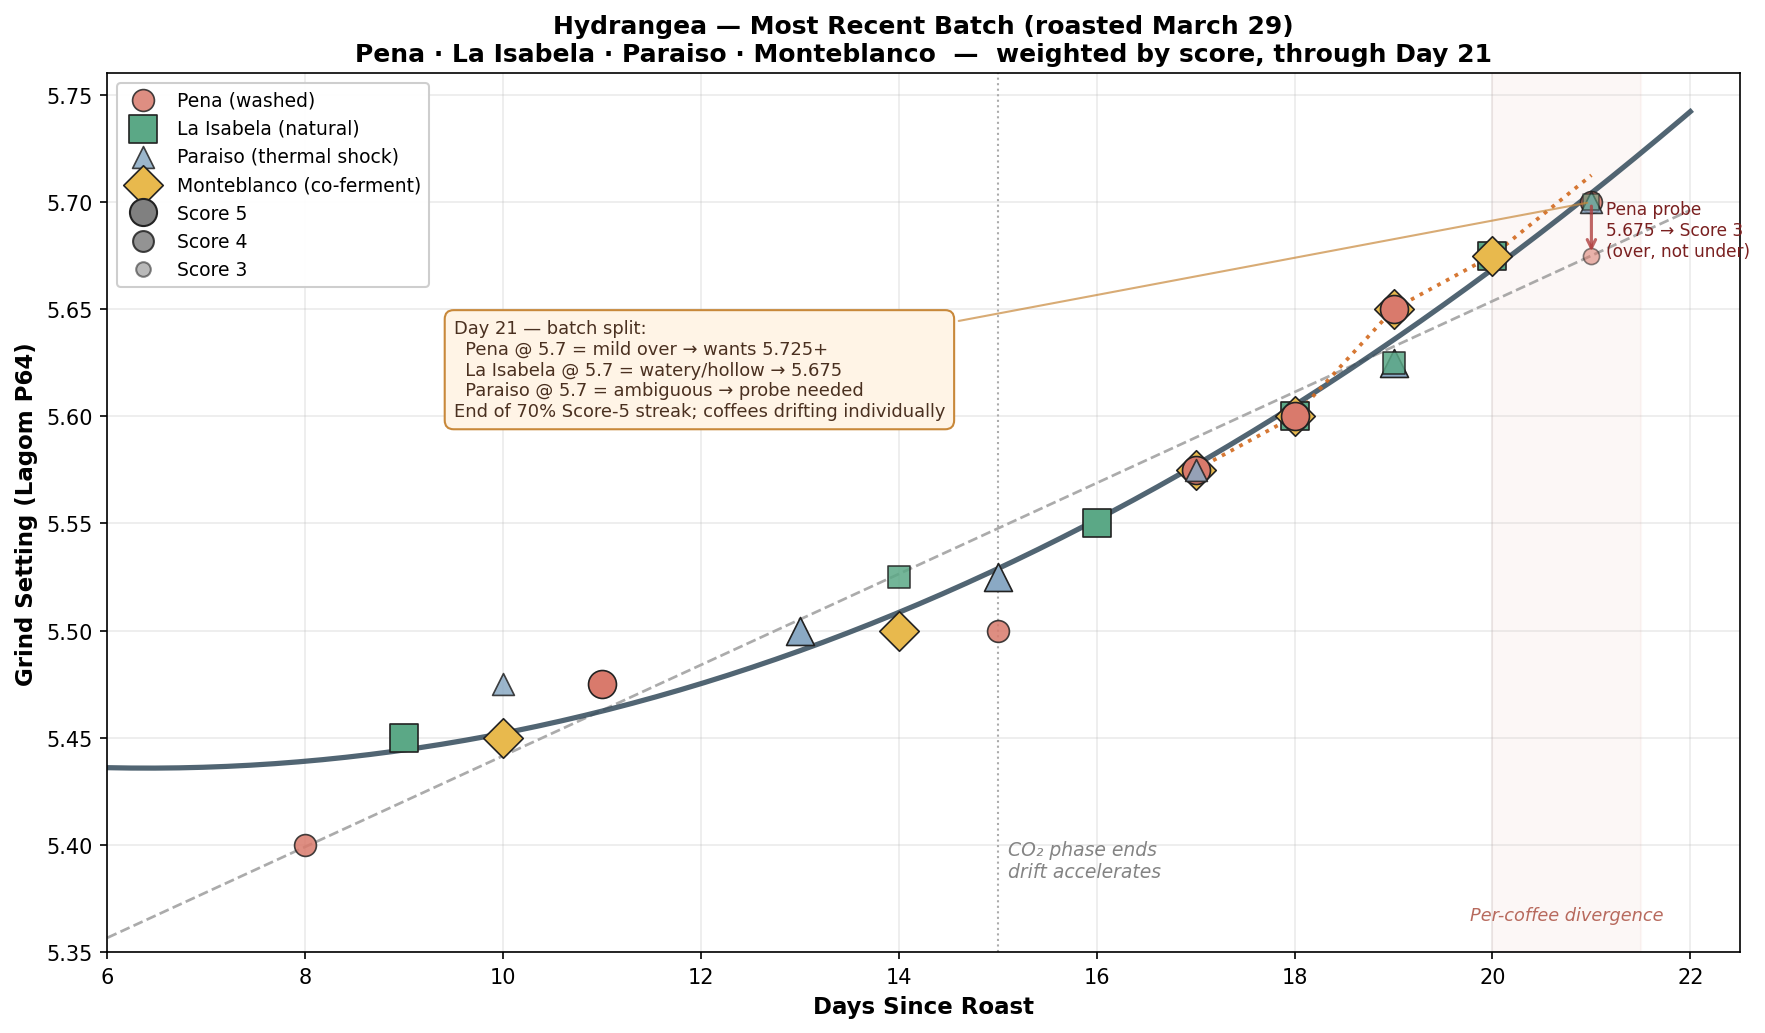
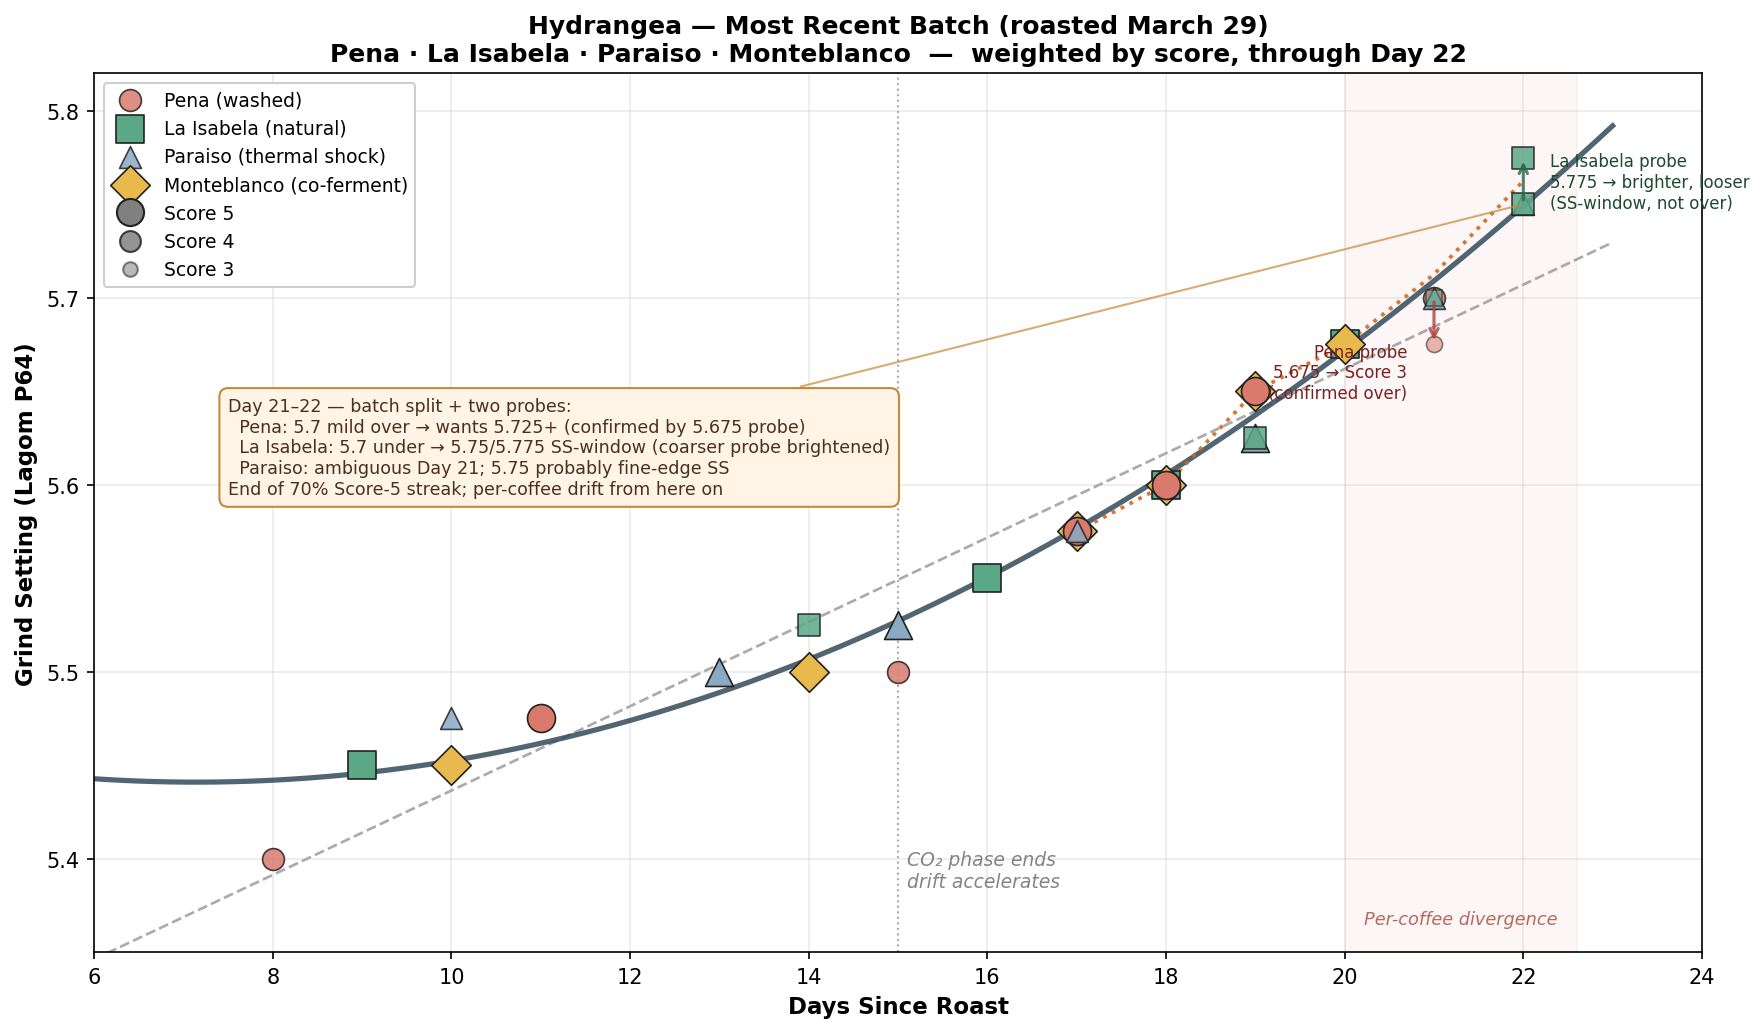
Entries and research

diff --git a/joshua-martin/profile.md b/joshua-martin/profile.md
@@ -88,13 +88,14 @@ _\*Lasso Mejorado is roasted by Paix, a separate roaster._
 - **Most recent batch** (Pena washed, La Isabela natural, Paraiso thermal shock, Monteblanco co-ferment, all roasted ~March 29): sweet spot converged on **5.45 at Day 9–10** regardless of processing method. Drift is very slow early (~0.008/day through Day 14, matching the original Hydrangea batch on Orea), **accelerating as the coffees age**. The roaster's approach dominates over processing method for baseline setting. Sweet spot held at **5.5 for Day 13–14** (Paraiso Score 5 Day 13, Monteblanco Score 5 Day 14). By Day 15, drift accelerated — Pena at 5.5 read as slightly overextracted, sweet spot shifted to 5.525. The **CO2 phase appears to end around Day 14–15** for this batch, after which drift picks up. By Day 17, drift reached ~0.025/day (5.575 confirmed by Pena and Monteblanco Score 5s). By Day 17–18, all four coffees converged to identical settings regardless of processing — max spread was 0.075 (3 clicks), and by Day 17 spread was zero. Tightest processing-method convergence in the journal. The batch has a **70% Score 5 rate with zero Score 3s across 17 entries** — the best-performing batch in the journal by a wide margin.
 - **Post-Day-15 drift rate**: **0.0300/day** (empirically fit across Pena, La Isabela, Paraiso, Monteblanco).
 - **Day 19 sweet spot confirmed at 5.65** (A/B tested; Monteblanco, Pena, La Isabela correction, Paraiso on finer edge all agree).
-- **Day 20**: Sweet spot at **5.675** (La Isabela Score 5 *"more voluminous"*, Monteblanco Score 5 Sweet Spot). Paraiso Score 4 at 5.675 (*"funky peach gummy isn't quite as developed"*) — Paraiso was the first coffee to show the batch beginning to differentiate.
+- **Day 20**: Sweet spot at **5.675** (La Isabela Score 5 _"more voluminous"_, Monteblanco Score 5 Sweet Spot). Paraiso Score 4 at 5.675 (_"funky peach gummy isn't quite as developed"_) — Paraiso was the first coffee to show the batch beginning to differentiate.
 - **Day 21**: The batch visibly split. All three coffees scored ≤4 at 5.7, but **in opposite extraction directions**:
-  - **Pena**: mild over at 5.7 (*"nothing shining / sweetness not sugary / acidity not genuine / cocoa a little off"*) — looks like under by vocabulary, confirmed as over by tiebreaker brew at 5.675 which came out Score 3 with mouth rubbing + heavy cocoa. Pena wants **5.725+**.
-  - **La Isabela**: genuinely under at 5.7 (Score 3, *"watery / hollow / little substance or development"*). Step back to **5.675** (last Score 5).
-  - **Paraiso**: truly ambiguous — *"unfocused / dulled / missing crisp/bright/sweet edge and definition"* with no mouthfeel issue. No tiebreaker yet; could be either side.
+  - **Pena**: mild over at 5.7 (_"nothing shining / sweetness not sugary / acidity not genuine / cocoa a little off"_) — looks like under by vocabulary, confirmed as over by tiebreaker brew at 5.675 which came out Score 3 with mouth rubbing + heavy cocoa. Pena wants **5.725+**.
+  - **La Isabela**: genuinely under at 5.7 (Score 3, _"watery / hollow / little substance or development"_). Step back to **5.675** (last Score 5).
+  - **Paraiso**: truly ambiguous — _"unfocused / dulled / missing crisp/bright/sweet edge and definition"_ with no mouthfeel issue. No tiebreaker yet; could be either side.
 - **End of the 70% Score-5 streak**: Day 21 is the first day with zero Score 5s in this batch. Signals the end of the batch's unusually forgiving early period — coffees are now drifting at individual rates and require per-coffee settings, not a single batch cadence.
 - **Calibration lesson** (Day 21): Same-day parallel drops with overlapping off-peak vocabulary can hide opposite-sign diagnoses. See §11 "Stalled-drift false alarm."
+- **Day 22**: Both Paraiso and La Isabela Score 4 at 5.75. La Isabela probed at 5.775 same day — acidity _brightened further_ ("even more brilliant sweet-tart grape candy") and texture _loosened further_ ("even looser"), without volume recovering. Falsifies "mild over" on La Isabela; confirms she was inside an SS-window with varietal acidity headroom. Paraiso's "loose funky flimsy" at 5.75 reads the same way — probably fine-edge SS, not over. **"Small flavor volume" on Day 22 is likely reference-anchor bias vs. Day 9's peak-perfuminess cup** ("one of the best of the year"), not an extraction deficit. Stop chasing volume; characterize the new window.
 
 ### September Coffee
 
@@ -132,16 +133,16 @@ _\*Lasso Mejorado is roasted by Paix, a separate roaster._
 
 ## 8. Drift-Rate Table (Summary)
 
-| Roaster / Batch                | Drift/Day      | Notes                                                                      |
-| ------------------------------ | -------------- | -------------------------------------------------------------------------- |
-| September (core washed)        | ~0.015         | Very consistent across coffees                                             |
-| September (creative/processed) | ~0.027 avg     | Gingerbread, White Honey; decelerates from ~0.036 to ~0.020                |
-| September (producer other)     | ~0.013         | Fajardo, Martinez, Rojas, Sudan Rume, Buttercream; slow, noisy             |
-| H&S batch 1                    | ~0.015         | Karani, Gatomboya, Iridescence; **accelerates to 0.035–0.050 past Day 50** |
-| H&S batch 3                    | ~0.023         | Trujillo, Lasso, Ninco, Chelbessa; **accelerates to ~0.033+ past Day 58**  |
-| Hydrangea (most recent batch)  | ~0.008 → 0.030 | Pre-Day-15 CO2 phase very slow; **post-Day-15 ~0.030/day** through Day 20. **Per-coffee divergence begins Day 20–21** — Pena trending ~0.025–0.030/day, La Isabela plateauing near 5.675, Paraiso ambiguous. Single-cadence dosing breaks down here.       |
-| Moonwake                       | ~0.025–0.029   | Serrato, Gomez, Ramirez, Benitez                                           |
-| SEY                            | ~0.020         | Muhito, Dota; narrow window, spiral-prone                                  |
+| Roaster / Batch                | Drift/Day      | Notes                                                                                                                                                                                                                                                |
+| ------------------------------ | -------------- | ---------------------------------------------------------------------------------------------------------------------------------------------------------------------------------------------------------------------------------------------------- |
+| September (core washed)        | ~0.015         | Very consistent across coffees                                                                                                                                                                                                                       |
+| September (creative/processed) | ~0.027 avg     | Gingerbread, White Honey; decelerates from ~0.036 to ~0.020                                                                                                                                                                                          |
+| September (producer other)     | ~0.013         | Fajardo, Martinez, Rojas, Sudan Rume, Buttercream; slow, noisy                                                                                                                                                                                       |
+| H&S batch 1                    | ~0.015         | Karani, Gatomboya, Iridescence; **accelerates to 0.035–0.050 past Day 50**                                                                                                                                                                           |
+| H&S batch 3                    | ~0.023         | Trujillo, Lasso, Ninco, Chelbessa; **accelerates to ~0.033+ past Day 58**                                                                                                                                                                            |
+| Hydrangea (most recent batch)  | ~0.008 → 0.030 | Pre-Day-15 CO2 phase very slow; **post-Day-15 ~0.030/day** through Day 20. **Per-coffee divergence begins Day 20–21** — Pena trending ~0.025–0.030/day, La Isabela plateauing near 5.675, Paraiso ambiguous. Single-cadence dosing breaks down here. |
+| Moonwake                       | ~0.025–0.029   | Serrato, Gomez, Ramirez, Benitez                                                                                                                                                                                                                     |
+| SEY                            | ~0.020         | Muhito, Dota; narrow window, spiral-prone                                                                                                                                                                                                            |
 
 ## 9. Correction Bias
 
@@ -219,6 +220,8 @@ Descriptors with strong directional signal in Joshua's journal beyond the univer
 - **Overextraction spiral signature**: "small" + any mouth discomfort ("scratchy", "tight", "rubbing", "stiff"). Joshua's journal: going finer from this fails 67% of the time.
 - **"Hollow" / "watery" / "little substance or development in the flavor"**: Reliable underextraction signal. Prototype: **La Isabela Day 21 @ 5.7**.
 - **"Nothing shining / sweetness not sugary / acidity not genuine / cocoa a little off / balanced but flat"**: **Ambiguous — lean mild over.** Looks like under ("nothing shining") but often resolves as mild over in Joshua's journal. Prototype: **Pena Day 21 @ 5.7** — finer tiebreaker at 5.675 came out with mouth rubbing + heavy cocoa, confirming mild over. When this vocabulary appears, brew a tiebreaker in either direction before committing.
+- **"Brilliant / effervescent / peaking acidity" + "small flavor volume" + clean mouthfeel**: **Ambiguous — probe coarser to distinguish.** Joshua's formulated heuristic was "this equals barely overextracted," but the coarser probe disambiguates. If acidity _softens_ under coarsening → confirmed mild over. If acidity _unlocks further_ (brightens, texture opens up) → not over; the coffee is inside a sweet-spot window with varietal acidity that has headroom, and the "small volume" symptom is likely a reference-anchor artifact (see below). Prototype: **La Isabela Day 22** — 5.75 "brilliant grape soda + small volume" → 5.775 "even more brilliant, even looser" = not over, SS-window with headroom.
+- **"Small flavor volume" when compared to a Day 8–14 peak cup**: Suspect **reference-anchor bias**, not compression. Fresh-coffee perfuminess and CO₂ lift fade regardless of grind; late-life cups cannot reproduce the young-coffee "big first impression" even at peak extraction. Check whether the mental anchor is a specific early-days cup ("one of the best of the year"-class memory). If other markers are sweet-spot-coded (loose, defined acidity, honest flavors, clean mouthfeel), the cup is probably peaking for its age and doesn't need adjustment. Prototype: **La Isabela Day 9 @ 5.45** anchors Day 22's "small volume" perception.
 
 (This section is a stub — planned to be populated more systematically by a `vocab_infer.py` script across all Score-3-then-corrected pairs.)
 

diff --git a/AGENT_GUIDE.md b/AGENT_GUIDE.md
@@ -260,3 +260,29 @@ The reliable move is to **probe with a tiebreaker brew** on whichever coffee has
 - If neither direction clears it → the coffees are on different sides of their individual windows, and each needs its own probe.
 
 One unambiguous tiebreaker cup is worth more than any amount of cross-coffee vocabulary pattern-matching.
+
+### Brilliant acidity + small volume: coarser-probe test
+
+When a cup presents **defined, peaking acidity** ("brilliant", "effervescent", "grape candy", "sharp") alongside **small flavor volume** and **clean mouthfeel** (no rubbing/rasp), two diagnoses compete:
+
+- **Mild over**: acidity is peaking because aromatic complexity has collapsed around it; phenolics haven't built enough for rubbing yet but are compressing volume.
+- **Sweet-spot window with varietal acidity that has headroom**: the coffee's acidity keeps unlocking further as you go coarser; "small volume" may be a reference artifact (see below).
+
+The probe is diagnostic: **brew one step coarser the same day**.
+
+- **If coarsening softens the acidity** (integrates it, or shifts brightness → warm-glow finish) and **volume returns** → confirmed mild over; step finer from the original setting.
+- **If coarsening makes the acidity _even brighter_** and the texture **"even looser"** without volume recovering → **not over**. The coffee was inside or near its sweet-spot window; acidity has headroom at coarser settings, and the "small volume" symptom is either fine-edge character or a reference-anchor artifact.
+
+Over-extraction's bright acidity is _fragile_: it does not unlock further under coarsening. Acidity that intensifies when you coarsen is sweet-spot acidity with room to open up, not compressed acidity being relieved.
+
+### The reference-anchor bias
+
+"Small flavor volume" evaluated against a recent peak cup from the **young-coffee period** (Days 8–14, fresh CO₂ perfuminess still dominant) can be a **reference-bias artifact rather than a real compression signal**. Fresh coffee contributes perceived flavor volume through perfuminess and CO₂ lift that fades regardless of grind — by Day 20+ the same coffee genuinely cannot produce the same "big first impression," even at peak extraction.
+
+Symptoms of reference-anchor bias:
+
+- Cup reads "small" or "delicate" alongside otherwise-sweet-spot markers (loose, defined acidity, honest flavors, clean mouthfeel)
+- The mental comparison is to a specific early-days cup (often explicitly remembered as "one of the best" or "peak perfuminess")
+- Coarsening probe does not recover the "volume" — because there's nothing to recover; the deficit is temporal, not extraction-based
+
+When the bias is in play, stop chasing volume and characterize the _new_ window the coffee is in. Score 4s that aren't missing anything extraction-addressable are the signature of a coffee past its young-peak; they represent the best that setting can produce and shouldn't be treated as near-misses.

diff --git a/joshua-martin/Coffee Journal.md b/joshua-martin/Coffee Journal.md
@@ -3887,3 +3887,15 @@ Moderate to big flavor volume and expansiveness, leads with the perfumy grape qu
 
 More of the cocoa or eucalyptus note initially, more obvious English breakfast tea vibes. Very heavy. Darker, spicier. Some mouth rubbing. No real acidity, while overall flavors are luxurious and hearty, but cocoa is heavy in an almost off taste sort of way. Luxurious but rubbing persists.
 Tricky, the luxury of this coffee comes out a bit more at this setting, but so does the cocoa/eucalyptus in a way that is a little stinky. Overall, enjoyable, but not the best this can be. **5.725 or higher**
+
+## Paraiso, Z, 5.75 @ 211ºF, 12.5g/250g Day 22, Score: 4
+
+Loose, funky, flimsy, but lovely flavors. Just lacking some structure.
+
+## La Isabela, Z, 5.75 @ 211ºF, 12.5g/250g Day 22, Score: 4
+
+Absolutely brilliant and effervescent grape soda acidity, but a small flavor volume. I have a hunch this and Paraiso are just barely overextracted. Perhaps genuine flavors and acidity + small flavor volume is barely overextracted?
+
+## La Isabela, Z, 5.775 @ 211ºF, 12.5g/250g Day 22, Score: 4
+
+Even more brilliant sweet-tart-like brilliant grape candy. Even looser, but could use some structure. Flavor volume is genuine but more delicate than the early days of this coffee — perhaps that is just a side effect of the initial perfuminess setting such a "big" first impression? Both this and the previous cup were solid cups.
